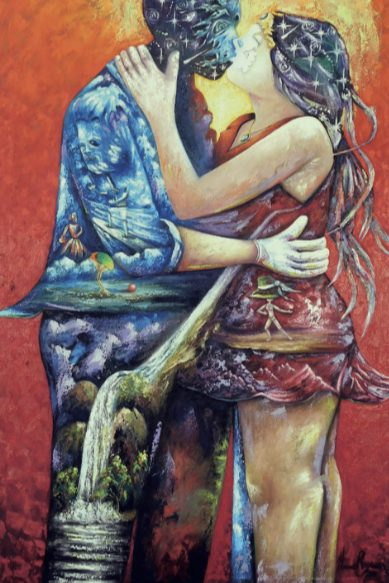
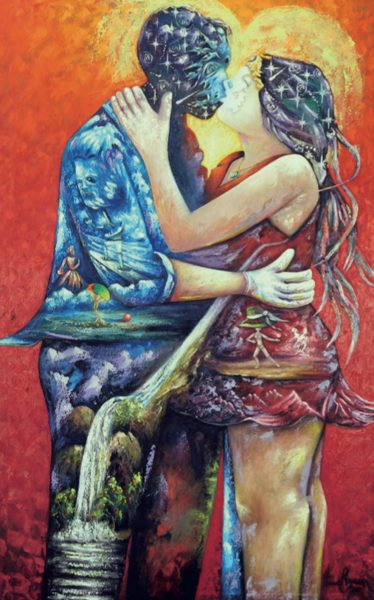
Auction: full critiques for Franklin Rodríguez and Juan Andújar in English, Spanish and French; clean image of Amor Reflexivo
Claude-Session: https://claude.ai/code/session_01JFgdJiiK19J4ZJBah5TEjT

diff --git a/museo-abreu/auction-config.js b/museo-abreu/auction-config.js
@@ -936,7 +936,7 @@ var AUCTION = {
       title: { es: 'Vino de la armonía', en: 'Vino de la armonía (Wine of Harmony)', fr: 'Vino de la armonía' },
       spec: { es: 'Óleo sobre lienzo · 40 × 40 pulg,', en: 'Oil on canvas · 40 × 40 in', fr: 'Huile sur toile · 40 × 40 po' },
       startBid: 1000 },
-    { id: 'amor-reflexivo', kind: 'painting', artist: 'Héctor Reynoso', year: 2026, img: 'img/reynoso-amor.jpg', thumb: 'img/reynoso-amor-600.jpg', w: 389, h: 583,
+    { id: 'amor-reflexivo', kind: 'painting', artist: 'Héctor Reynoso', year: 2026, img: 'img/reynoso-amor.jpg', thumb: 'img/reynoso-amor-600.jpg', w: 507, h: 814,
       title: { es: 'Amor Reflexivo', en: 'Amor Reflexivo (Reflective Love)', fr: 'Amor Reflexivo' },
       spec: { es: 'Técnica mixta sobre lienzo · 49,8 × 30 pulg,', en: 'Mixed media on canvas · 49.8 × 30 in', fr: 'Technique mixte sur toile · 49,8 × 30 po' },
       startBid: 1000 },
@@ -1297,10 +1297,12 @@ AUCTION.essaysTr = {
  },
  "Juan Andújar": {
   "es": {
-   "head": "El rostro como sistema rítmico"
+   "head": "El rostro como sistema rítmico",
+   "text": "En la obra de Juan Andújar, el rostro deja de funcionar como identidad y se convierte, en cambio, en una unidad dentro de un sistema mayor. No se presenta como singularidad psicológica ni como campo expresivo individual, sino como un elemento organizado mediante la repetición, la variación y el ritmo.\n\nLa pintura abandona así la lógica tradicional del retrato.\n\nAvanza hacia la estructura.\n\nUna estructura en la que la figuración no desaparece del todo, pero pierde su autoridad como signo estable.\n\nLo que Andújar propone no es una serie de imágenes aisladas, sino un campo de relaciones en reorganización constante. Cada rostro opera como una instancia dentro de una secuencia y se afirma no solo por su individualidad, sino por las mínimas diferencias que mantiene con los demás.\n\nEsa variación casi imperceptible es lo que activa la obra.\n\nImpide que la repetición caiga en la redundancia.\n\nEn lugar de reiteración, la repetición genera desplazamiento. Y dentro de ese desplazamiento, la imagen deja de funcionar como representación y se convierte, en cambio, en una forma de tiempo.\n\nEl rostro, históricamente asociado a la identidad, la psicología y la individualidad, se desplaza de su papel central tradicional sin desaparecer por completo. Sigue siendo reconocible, pero queda suspendido en una condición intermedia entre figura y signo, entre presencia y patrón.\n\nLa obra no niega lo humano.\n\nLo reorganiza.\n\nLa identidad aquí ya no es un punto fijo, sino una construcción que se modula, se repite y se transforma continuamente a lo largo de la duración.\n\nOtro aspecto esencial de su obra es su relación con la música. Esta relación no surge como referencia temática, sino como lógica estructural. El ritmo, la pausa, la repetición, la modulación y la variación operan en la pintura como principios organizativos que determinan cómo funciona la imagen.\n\nCada rostro puede entenderse como una nota dentro de una partitura visual.\n\nEl sentido no reside en ningún elemento aislado, sino en la continuidad que se establece entre ellos. La imagen se despliega de forma secuencial, casi musical, y exige que el ojo recorra la superficie del mismo modo en que la escucha recorre una composición.\n\nEn este sistema, el color no funciona como recurso expresivo dominante, sino como un campo estabilizador que permite a la secuencia sostenerse sin caer en la jerarquía ni en el énfasis dramático.\n\nEl color sostiene la vibración.\n\nNo dramatiza.\n\nLas relaciones cromáticas mantienen la continuidad en la superficie y producen un ritmo visual en el que la mirada nunca llega a un punto de reposo definitivo, sino que sigue circulando por toda la composición.\n\nAndújar construye así no imágenes cerradas, sino dispositivos perceptivos abiertos que reorganizan la experiencia de mirar a través del tiempo. El espectador no se enfrenta a una pintura que se resuelve de un solo vistazo.\n\nLa obra exige duración.\nRegreso.\nRepetición de la propia experiencia visual.\n\nLa comprensión surge poco a poco y no de inmediato, por acumulación y no por reconocimiento instantáneo.\n\nEn el arte dominicano contemporáneo, su obra introduce una operación especialmente significativa al llevar la figuración hacia una lógica serial sin romper su vínculo con la imagen humana. Su práctica existe en un territorio intermedio donde el rostro sigue siendo visible, pero ya funciona de manera estructural más que psicológica.\n\nEsa ambigüedad da a la obra su fuerza conceptual.\n\nPorque las pinturas siguen oscilando entre retrato y sistema, entre individualidad y repetición, entre imagen y ritmo.\n\nEn un momento en que las imágenes contemporáneas buscan a menudo una singularidad inmediata y un impacto rápido, Andújar propone otra forma de construcción por completo, una basada en la continuidad. Cada obra no se presenta como conclusión, sino como prolongación de un sistema en evolución en el que el lenguaje visual se desarrolla mediante la repetición consciente y la variación controlada.\n\nEsa continuidad convierte la obra en una investigación en curso más que en una declaración aislada.\n\nJuan Andújar no pinta rostros para fijar identidades ni para construir retratos en sentido clásico. Su obra desplaza la imagen hacia una condición en la que lo que importa ya no es lo que el rostro representa, sino cómo funciona dentro de una estructura mayor.\n\nY en ese desplazamiento, su obra introduce una idea fundamental: que la pintura puede dejar de operar como representación y convertirse, en cambio, en organización temporal de la imagen misma.\n\nEn su práctica, la pintura nunca se asienta en una forma terminada. Se sostiene mediante una modulación continua, donde cada elemento participa de una lógica que no busca el cierre, sino una duración activa a través del tiempo y la percepción."
   },
   "fr": {
-   "head": "Le visage comme système rythmique"
+   "head": "Le visage comme système rythmique",
+   "text": "Dans l’œuvre de Juan Andújar, le visage cesse de fonctionner comme identité pour devenir une unité au sein d’un système plus vaste. Il ne se présente ni comme singularité psychologique ni comme champ expressif individuel, mais comme un élément organisé par la répétition, la variation et le rythme.\n\nLa peinture abandonne ainsi la logique traditionnelle du portrait.\n\nElle va vers la structure.\n\nUne structure où la figuration ne disparaît pas entièrement, mais perd son autorité de signe stable.\n\nCe qu’Andújar propose n’est pas une série d’images isolées, mais un champ de relations en réorganisation constante. Chaque visage fonctionne comme une occurrence dans une séquence et s’affirme non seulement par son individualité, mais par les différences minimes qu’il garde avec les autres.\n\nCette variation presque imperceptible est ce qui active l’œuvre.\n\nElle empêche la répétition de tomber dans la redondance.\n\nAu lieu de la réitération, la répétition crée un déplacement. Et dans ce déplacement, l’image cesse de fonctionner comme représentation pour devenir une forme de temps.\n\nLe visage, historiquement associé à l’identité, à la psychologie et à l’individualité, est déplacé de son rôle central traditionnel sans disparaître complètement. Il reste reconnaissable, mais suspendu dans une condition intermédiaire entre figure et signe, entre présence et motif.\n\nL’œuvre ne nie pas l’humain.\n\nElle le réorganise.\n\nL’identité n’est plus ici un point fixe, mais une construction qui se module, se répète et se transforme sans cesse dans la durée.\n\nUn autre aspect essentiel de son œuvre est son rapport à la musique. Ce rapport n’apparaît pas comme une référence thématique, mais comme une logique structurelle. Le rythme, la pause, la répétition, la modulation et la variation agissent dans le tableau comme des principes d’organisation qui déterminent le fonctionnement de l’image.\n\nChaque visage peut se comprendre comme une note dans une partition visuelle.\n\nLe sens ne réside dans aucun élément isolé, mais dans la continuité qui s’établit entre eux. L’image se déploie de façon séquentielle, presque musicale, et demande à l’œil de parcourir la surface comme l’écoute parcourt une composition.\n\nDans ce système, la couleur ne fonctionne pas comme un procédé expressif dominant, mais comme un champ stabilisateur qui permet à la séquence de se maintenir sans sombrer dans la hiérarchie ou l’emphase dramatique.\n\nLa couleur soutient la vibration.\n\nElle ne dramatise pas.\n\nLes rapports chromatiques maintiennent la continuité sur la surface et produisent un rythme visuel où le regard n’atteint jamais de point de repos définitif, mais reste en circulation dans toute la composition.\n\nAndújar construit donc non des images closes, mais des dispositifs perceptifs ouverts qui réorganisent l’expérience du regard dans le temps. Le spectateur ne se trouve pas devant un tableau qui se résout d’un seul coup d’œil.\n\nL’œuvre exige la durée.\nLe retour.\nLa répétition de l’expérience visuelle elle-même.\n\nLa compréhension naît peu à peu plutôt qu’immédiatement, par accumulation plutôt que par reconnaissance instantanée.\n\nDans l’art dominicain contemporain, son œuvre introduit une opération particulièrement importante en faisant glisser la figuration vers une logique sérielle sans rompre son lien avec l’image humaine. Sa pratique existe sur un territoire intermédiaire où le visage reste visible, mais fonctionne déjà de manière structurelle plutôt que psychologique.\n\nCette ambiguïté donne à l’œuvre sa force conceptuelle.\n\nCar les tableaux continuent d’osciller entre portrait et système, entre individualité et répétition, entre image et rythme.\n\nÀ un moment où les images contemporaines recherchent souvent une singularité immédiate et un impact rapide, Andújar propose une tout autre forme de construction, fondée sur la continuité. Chaque œuvre ne se présente pas comme une conclusion, mais comme le prolongement d’un système en évolution où le langage visuel se développe par une répétition consciente et une variation maîtrisée.\n\nCette continuité fait de l’œuvre une recherche en cours plutôt qu’une déclaration isolée.\n\nJuan Andújar ne peint pas des visages pour fixer des identités ou construire des portraits au sens classique. Son œuvre déplace l’image vers une condition où ce qui compte n’est plus ce que le visage représente, mais la manière dont il fonctionne dans une structure plus vaste.\n\nEt dans ce déplacement, son œuvre introduit une idée fondamentale : la peinture peut cesser d’agir comme représentation pour devenir une organisation temporelle de l’image elle-même.\n\nDans sa pratique, la peinture ne se fige jamais dans une forme achevée. Elle se maintient par une modulation continue, où chaque élément participe d’une logique qui ne cherche pas la clôture, mais une durée active à travers le temps et la perception."
   }
  },
  "Ney Díaz Henríquez": {
@@ -1915,10 +1917,12 @@ AUCTION.essaysTr = {
  },
  "Franklin Rodríguez": {
   "es": {
-   "head": "La figura como territorio de inscripción simbólica"
+   "head": "La figura como territorio de inscripción simbólica",
+   "text": "La obra de Franklin Rodríguez se construye en un territorio donde la figura no se presenta como forma estable, sino como un espacio intervenido por múltiples capas de información visual. Sus personajes no se definen mediante la lógica anatómica tradicional, sino que están atravesados por líneas, patrones, texturas y campos cromáticos que transforman el cuerpo en una superficie de inscripción.\n\nEn ese desplazamiento, la pintura deja de representar.\nSe convierte en lenguaje.\n\nEn sus composiciones, la figura humana funciona como un soporte activo a través del cual se cruzan signos, ritmos gráficos y estructuras repetitivas que recuerdan tanto sistemas orgánicos como códigos culturales.\n\nEl cuerpo nunca está cerrado.\nEs permeable.\n\nCada zona parece escrita, marcada, atravesada por una energía que va más allá de lo puramente pictórico y sugiere una memoria cultural y simbólica más amplia.\n\nEl uso de la línea es fundamental en su obra. No se limita a delimitar la forma; construye sistemas. Las líneas se repiten, se expanden, se entrelazan y se multiplican, generando patrones que a la vez organizan y desestabilizan la imagen. En este sentido, su pintura no es solo visual.\nEs rítmica.\n\nEsa condición rítmica da movimiento a la obra incluso cuando la composición se mantiene estructuralmente contenida. La superficie vibra mediante la repetición y la interrupción, creando secuencias visuales que obligan al ojo a circular continuamente por toda la imagen.\n\nEl color actúa como una fuerza que intensifica la presencia física y emocional de la obra. Rojos, amarillos, verdes, rosados y negros se articulan en combinaciones que no buscan la armonía tradicional, sino el impacto y la vibración. La superficie pictórica se vuelve activa, casi sonora, como si la imagen estuviera cargada de una energía que excede los límites de la propia visión.\n\nEl color no acompaña la forma.\nLa electriza.\n\nExiste en toda su obra una clara relación con la identidad, aunque nunca mediante la representación narrativa directa. La figura aparece fragmentada, intervenida, a veces descompuesta, como si existiera dentro de un proceso de reconstrucción. No hay una afirmación fija de la identidad.\nHay búsqueda.\n\nEl cuerpo se convierte en un territorio sobre el que se inscriben a la vez tensiones culturales, personales y simbólicas. Esa inestabilidad da a la obra profundidad psicológica y conceptual bajo su intensidad visual.\n\nEn algunas piezas, esta lógica se expande hacia una abstracción más abierta en la que el gesto y la materia ocupan la superficie sin depender de la figuración. Pero incluso en esos momentos, la energía permanece intacta.\n\nLa pintura nunca se vacía.\nSe expande.\n\nEsa expansión es importante porque revela que la coherencia de su obra no depende solo de imágenes reconocibles, sino de la persistencia del ritmo, la marca y la tensión simbólica en toda la superficie.\n\nEn el arte dominicano contemporáneo, Franklin Rodríguez ocupa una posición singular porque su pintura dialoga con lenguajes visuales globales sin perder su vínculo con la sensibilidad caribeña. Su obra puede evocar referencias internacionales ligadas a la abstracción, la figuración simbólica y los sistemas gráficos, pero su construcción interna responde a una condición claramente caribeña marcada por la intensidad, la mezcla, la superposición y la multiplicidad cultural.\n\nEse equilibrio da a la obra relevancia internacional sin sacrificar su autenticidad.\n\nSu práctica no busca estabilizar la imagen ni ofrecer una interpretación cerrada. Cada obra funciona como un sistema abierto en el que el espectador debe moverse, recorrer y reconstruir las relaciones entre el signo, el cuerpo, el color y el ritmo.\n\nLa pintura no se entrega de inmediato.\nSe activa a través de la percepción.\n\nY es precisamente ahí donde la obra adquiere su dimensión contemporánea más fuerte: en su negativa a simplificar la identidad en una imagen fija o un sentido único.\n\nFranklin Rodríguez no pinta para representar figuras reconocibles ni para construir imágenes decorativas. Pinta para generar espacios donde el cuerpo mismo se convierte en lenguaje. En ese gesto, su obra plantea una idea fundamental: que la pintura puede convertirse en un territorio donde la identidad no se define de una vez por todas, sino que se escribe, se cruza, se borra y se reconstruye continuamente.\n\nSu obra sigue activa porque nunca se cierra en una forma definitiva. Funciona como una estructura en movimiento donde el signo, el color, el ritmo y la figura siguen actuando en la percepción del espectador mucho después de que la imagen inmediata ha desaparecido."
   },
   "fr": {
-   "head": "La figure comme territoire d’inscription symbolique"
+   "head": "La figure comme territoire d’inscription symbolique",
+   "text": "L’œuvre de Franklin Rodríguez se construit sur un territoire où la figure ne se présente pas comme une forme stable, mais comme un espace retravaillé par plusieurs couches d’information visuelle. Ses personnages ne se définissent pas selon la logique anatomique traditionnelle ; ils sont traversés de lignes, de motifs, de textures et de champs chromatiques qui transforment le corps en surface d’inscription.\n\nDans ce déplacement, la peinture cesse de représenter.\nElle devient langage.\n\nDans ses compositions, la figure humaine fonctionne comme un support actif où se croisent signes, rythmes graphiques et structures répétitives, rappelant à la fois des systèmes organiques et des codes culturels.\n\nLe corps n’est jamais fermé.\nIl est perméable.\n\nChaque zone semble écrite, marquée, traversée par une énergie qui dépasse le seul pictural et suggère une mémoire culturelle et symbolique plus vaste.\n\nL’usage de la ligne est fondamental dans son œuvre. Elle ne se contente pas de délimiter la forme ; elle construit des systèmes. Les lignes se répètent, s’étendent, s’entrelacent et se multiplient, créant des motifs qui organisent et déstabilisent l’image à la fois. En ce sens, sa peinture n’est pas seulement visuelle.\nElle est rythmique.\n\nCette condition rythmique donne du mouvement à l’œuvre même lorsque la composition reste structurellement contenue. La surface vibre par la répétition et l’interruption, créant des séquences visuelles qui obligent l’œil à circuler sans cesse dans toute l’image.\n\nLa couleur agit comme une force qui intensifie la présence physique et émotionnelle de l’œuvre. Rouges, jaunes, verts, roses et noirs s’articulent dans des combinaisons qui ne cherchent pas l’harmonie traditionnelle, mais l’impact et la vibration. La surface picturale devient active, presque sonore, comme si l’image était chargée d’une énergie qui dépasse les limites de la vision elle-même.\n\nLa couleur n’accompagne pas la forme.\nElle l’électrise.\n\nIl existe dans toute son œuvre un rapport clair à l’identité, mais jamais par une représentation narrative directe. La figure apparaît fragmentée, retravaillée, parfois décomposée, comme si elle existait dans un processus de reconstruction. Il n’y a pas d’affirmation fixe de l’identité.\nIl y a une recherche.\n\nLe corps devient un territoire où s’inscrivent à la fois des tensions culturelles, personnelles et symboliques. Cette instabilité donne à l’œuvre une profondeur psychologique et conceptuelle sous son intensité visuelle.\n\nDans certaines pièces, cette logique s’étend vers une abstraction plus ouverte où le geste et la matière occupent la surface sans dépendre de la figuration. Pourtant, même dans ces moments, l’énergie reste intacte.\n\nLe tableau ne se vide jamais.\nIl s’étend.\n\nCette expansion est importante, car elle révèle que la cohérence de son œuvre ne dépend pas uniquement d’images reconnaissables, mais de la persistance du rythme, de la marque et de la tension symbolique sur toute la surface.\n\nDans l’art dominicain contemporain, Franklin Rodríguez occupe une place singulière, car sa peinture dialogue avec des langages visuels mondiaux sans perdre son lien avec la sensibilité caribéenne. Son œuvre peut évoquer des références internationales liées à l’abstraction, à la figuration symbolique et aux systèmes graphiques, mais sa construction intérieure répond à une condition nettement caribéenne marquée par l’intensité, le mélange, la superposition et la multiplicité culturelle.\n\nCet équilibre donne à l’œuvre une portée internationale sans sacrifier son authenticité.\n\nSa pratique ne cherche ni à stabiliser l’image ni à offrir une interprétation close. Chaque œuvre fonctionne comme un système ouvert où le spectateur doit se déplacer, naviguer et reconstruire les rapports entre le signe, le corps, la couleur et le rythme.\n\nLe tableau ne se livre pas immédiatement.\nIl s’active par la perception.\n\nEt c’est précisément là que l’œuvre acquiert sa dimension contemporaine la plus forte : dans son refus de réduire l’identité à une image fixe ou à un sens unique.\n\nFranklin Rodríguez ne peint pas pour représenter des figures reconnaissables ou construire des images décoratives. Il peint pour créer des espaces où le corps lui-même devient langage. Dans ce geste, son œuvre avance une idée fondamentale : la peinture peut devenir un territoire où l’identité n’est pas définie une fois pour toutes, mais sans cesse écrite, traversée, effacée et reconstruite.\n\nSon œuvre reste active parce qu’elle ne se referme jamais sur une forme définitive. Elle fonctionne comme une structure en mouvement où le signe, la couleur, le rythme et la figure continuent d’agir dans la perception du spectateur longtemps après que l’image immédiate a disparu."
   }
  },
  "Joaquín Rosario": {
@@ -2234,7 +2238,67 @@ His practice reveals a strong structural coherence. Each work does not attempt t
 It is calibration.
 
 José Almonte does not paint in order to represent scenes or construct closed images. He paints in order to generate cartographies. In that gesture, his work proposes a fundamental idea: that painting can function as a space where existence is not described, but organized.` },
-  'Juan Andújar': { head: 'The face as rhythmic system' },
+  'Juan Andújar': { head: 'The face as rhythmic system', text: `In Juan Andújar’s work, the face ceases to function as identity and becomes instead a unit within a larger system. It does not present itself as psychological singularity or as individual expressive field, but as element organized through repetition, variation, and rhythm.
+
+Painting therefore abandons the traditional logic of portraiture.
+
+It moves toward structure.
+
+A structure in which figuration does not disappear entirely, yet loses its authority as stable sign.
+
+What Andújar proposes is not a series of isolated images, but a field of relationships in constant reorganization. Each face operates as instance within sequence, affirming itself not through individuality alone, but through the minimal differences it maintains in relation to the others.
+
+That almost imperceptible variation is what activates the work.
+
+It prevents repetition from collapsing into redundancy.
+
+Instead of reiteration, repetition generates displacement. And within that displacement, the image ceases to function as representation and becomes instead a form of time.
+
+The face historically associated with identity, psychology, and individuality is displaced from its traditional central role without disappearing completely. It remains recognizable, yet suspended within an intermediate condition between figure and sign, between presence and pattern.
+
+The work does not deny the human.
+
+It reorganizes it.
+
+Identity here is no longer fixed point, but construction continuously modulating, repeating, and transforming itself through duration.
+
+Another essential aspect of his work is its relationship with music. This relationship does not emerge as thematic reference, but as structural logic. Rhythm, pause, repetition, modulation, and variation operate within the painting as organizational principles determining how the image functions.
+
+Each face may be understood as note within visual score.
+
+Meaning does not reside in any isolated element, but in the continuity established between them. The image unfolds sequentially, almost musically, requiring the eye to move across the surface the way listening moves through composition.
+
+In this system, color does not function as dominant expressive device, but as stabilizing field allowing the sequence to sustain itself without collapsing into hierarchy or dramatic emphasis.
+
+Color sustains vibration.
+
+It does not dramatize.
+
+Chromatic relationships maintain continuity across the surface, producing a visual rhythm in which the gaze never arrives at definitive point of rest, but remains in circulation throughout the composition.
+
+Andújar therefore constructs not closed images, but open perceptual devices reorganizing the experience of looking through time. The viewer does not confront a painting resolving itself in single glance.
+
+The work demands duration.
+Return.
+Repetition of visual experience itself.
+
+Understanding emerges gradually rather than immediately, through accumulation rather than instant recognition.
+
+Within contemporary Dominican art, his work introduces a particularly significant operation by shifting figuration toward serial logic without severing its connection to the human image. His practice exists within an intermediate territory where the face still remains visible, yet already functions structurally rather than psychologically.
+
+That ambiguity gives the work its conceptual force.
+
+Because the paintings continue oscillating between portrait and system, between individuality and repetition, between image and rhythm.
+
+In a moment where contemporary images often seek immediate singularity and rapid impact, Andújar proposes another form of construction altogether one grounded in continuity. Each work does not present itself as conclusion, but as extension of an evolving system in which visual language develops through conscious repetition and controlled variation.
+
+That continuity transforms the work into ongoing investigation rather than isolated statement.
+
+Juan Andújar does not paint faces in order to fix identities or construct portraits in the classical sense. His work displaces the image toward a condition in which what matters is no longer what the face represents, but how it functions within larger structure.
+
+And in that displacement, his work introduces a fundamental idea: that painting can cease to operate as representation and instead become temporal organization of the image itself.
+
+Within his practice, painting never settles into finished form. It sustains itself through continuous modulation, where every element participates within a logic seeking not closure, but active duration through time and perception.` },
   'Ney Díaz Henríquez': { head: 'Painting as a field of tension between figure and matter', text: `Ney Díaz Henríquez’s work is constructed within a territory where the human figure does not present itself as stable form, but as a body in constant transformation. His images do not seek to fix identity or represent a definitive state; rather, they expose the process through which the figure is constructed, altered, and decomposed within the painting itself.
 
 Within his compositions, the body appears traversed by matter. It is not contained by drawing nor fully defined by form. Instead, it merges with stains, glazes, transparencies, and gestures that interrupt its stability. The figure never fully disappears, yet neither does it completely impose itself upon the surface.
@@ -5173,7 +5237,54 @@ Because when Villalona works from this level of tension, his painting moves beyo
 And it is precisely at that point that his work ceases to be merely well-constructed painting.
 
 And begins to become an experience of real intensity.` },
-  'Franklin Rodríguez': { head: 'The figure as a territory of symbolic inscription' },
+  'Franklin Rodríguez': { head: 'The figure as a territory of symbolic inscription', text: `Franklin Rodríguez’s work is constructed within a territory where the figure does not present itself as stable form, but as a space intervened by multiple layers of visual information. His characters are not defined through traditional anatomical logic, but traversed by lines, patterns, textures, and chromatic fields transforming the body into a surface of inscription.
+
+In that displacement, painting ceases to represent.
+It becomes language.
+
+Within his compositions, the human figure functions as an active support through which signs, graphic rhythms, and repetitive structures intersect, recalling both organic systems and cultural codes.
+
+The body is never closed.
+It is permeable.
+
+Every zone appears written upon, marked, crossed by an energy extending beyond the purely pictorial and suggesting a broader cultural and symbolic memory.
+
+The use of line is fundamental within his work. It does not merely delimit form; it constructs systems. Lines repeat, expand, intertwine, and multiply, generating patterns that simultaneously organize and destabilize the image. In this sense, his painting is not only visual.
+It is rhythmic.
+
+That rhythmic condition gives the work movement even when the composition itself remains structurally contained. The surface vibrates through repetition and interruption, creating visual sequences that force the eye to circulate continuously throughout the image.
+
+Color acts as a force intensifying the physical and emotional presence of the work. Reds, yellows, greens, pinks, and blacks articulate themselves through combinations that do not seek traditional harmony, but impact and vibration. The pictorial surface becomes active, almost sonic, as though the image were charged with an energy exceeding the limits of vision itself.
+
+Color does not accompany the form.
+It electrifies it.
+
+There exists throughout his work a clear relationship with identity, though never through direct narrative representation. The figure appears fragmented, intervened, at times decomposed, as though existing within a process of reconstruction. There is no fixed affirmation of identity.
+There is search.
+
+The body becomes a territory upon which cultural, personal, and symbolic tensions are inscribed simultaneously. That instability gives the work psychological and conceptual depth beneath its visual intensity.
+
+In some pieces, this logic expands toward a more open abstraction in which gesture and materiality occupy the surface without dependence upon figuration. Yet even in those moments, the energy remains intact.
+
+The painting never empties itself.
+It expands.
+
+That expansion is important because it reveals that the coherence of his work does not depend exclusively on recognizable imagery, but on the persistence of rhythm, mark, and symbolic tension across the entire surface.
+
+Within contemporary Dominican art, Franklin Rodríguez occupies a singular position because his painting engages global visual languages without losing its connection to Caribbean sensibility. His work may evoke international references related to abstraction, symbolic figuration, and graphic systems, yet its internal construction responds to a distinctly Caribbean condition marked by intensity, mixture, layering, and cultural multiplicity.
+
+That balance gives the work international relevance without sacrificing authenticity.
+
+His practice does not seek to stabilize the image or offer closed interpretation. Each work functions as an open system in which the viewer must move, navigate, and reconstruct relationships between sign, body, color, and rhythm.
+
+The painting does not surrender itself immediately.
+It activates itself through perception.
+
+And it is precisely there that the work acquires its strongest contemporary dimension: in its refusal to simplify identity into fixed image or singular meaning.
+
+Franklin Rodríguez does not paint in order to represent recognizable figures or construct decorative images. He paints in order to generate spaces where the body itself becomes language. In that gesture, his work proposes a fundamental idea: that painting can become a territory where identity is not defined once and for all, but continuously written, crossed, erased, and reconstructed.
+
+His work remains active because it never closes itself into definitive form. It functions as a structure in movement where sign, color, rhythm, and figure continue operating within the viewer’s perception long after the immediate image has disappeared.` },
   'Jesús Desangles': { head: 'The image as a carnival of inner forces', text: `The work of Jesús Desangles is constructed through a pictorial energy in which the image does not seek to represent the world in a stable manner, but rather to make it vibrate continuously. His compositions do not emerge from calmness or objective description; they arise from movement, fragmentation, line, and a visual intensity that transforms the pictorial surface into a territory of permanent tension. In Desangles, painting does not merely present figures or recognizable scenes; it activates visual, cultural, and symbolic forces that displace the image toward a dimension where the human, the ritual, and the imaginary constantly intersect.
 
 The human figure never appears fully closed or completely defined. It is dismantled, expanded, and reorganized through masks, symbols, lines, and graphic structures that shift the body into a hybrid space where identity and transformation operate simultaneously. The human constantly merges with the animal, the spiritual, and the carnivalesque, creating images in which cultural memory acquires an active presence. This hybrid territory constitutes one of the most important aspects of his language, because Jesús Desangles understands that the Caribbean cannot be reduced to a fixed image or to superficial folkloric representation. In his work, the Caribbean appears as cultural energy in motion, as visual rhythm, as continuous transformation.

diff --git a/museo-abreu/sw.js b/museo-abreu/sw.js
@@ -1,5 +1,5 @@
 // Offline shell: the app opens without a connection (e.g. to show a ticket QR).
-const CACHE = 'museo-abreu-v197';
+const CACHE = 'museo-abreu-v198';
 const SHELL = ['./', 'index.html', 'styles.css', 'i18n.js', 'sample-en.js', 'sample-es.js', 'sample-fr.js', 'sample-de.js', 'sample-ru.js', 'sample-it.js', 'sample-pt.js', 'sample-ja.js', 'data.js', 'manifestos.js', 'manifestos-text.js', 'booking-config.js', 'features.js', 'gabangi.js', 'content.js', 'rsvp.js', 'checkout.js', 'auction-config.js', 'market.js', 'events-page.js', 'admin.js', 'story.js', 'aftercare.js', 'insights.js', 'remind.js', 'wishlist.js', 'alerts.js', 'newsletter.js', 'scanner.js', 'kit.js', 'contact.js', 'legal.js', 'fullbook.js', 'bookplus.js', 'sample-fund.js', 'fundamentos-parse.js', 'fundamentos.js', 'listen.js', 'audiobook.js', 'director.js', 'app.js', 'agent-widget.js', 'icon.svg', 'manifest.webmanifest',
   'qrcode.js', 'img/escaping-being.jpg', 'img/passion.jpg', 'img/petrichor.jpg', 'img/resilience.jpg', 'img/limerence.jpg', 'img/echoes-of-memory.jpg',
   'img/time-on-my-face.jpg',
